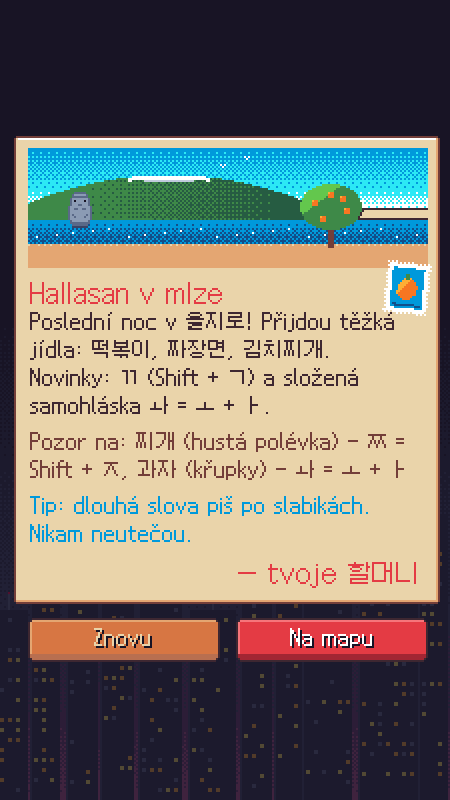
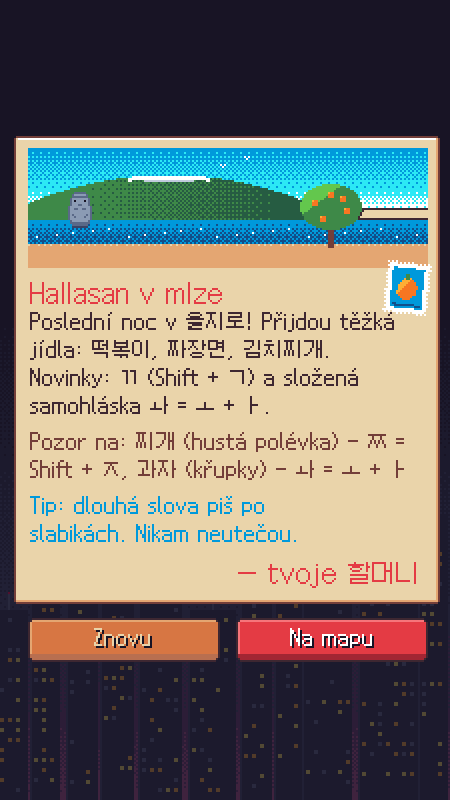
Postcard tip wraps clear of grandma's sprite; version 0.5.0 (title shows v0.5)

Changed region(s): [[0.0622, 0.625, 0.8089, 0.6875]]

diff --git a/src/scenes/Title.ts b/src/scenes/Title.ts
@@ -42,7 +42,7 @@ export class TitleScene extends Phaser.Scene {
     else button(this, 16, by, 20, 20, '', () => this.coop(), { icon: 'together', style: 'wood' }).setDepth(DEPTH.hud);
     this.tweens.add({ targets: start, scale: { from: 1, to: 1.05 }, yoyo: true, repeat: -1, duration: 700, ease: 'Sine.easeInOut' });
     button(this, W - 16, by, 20, 20, '', () => goto(this, 'Settings', { from: 'Title' }), { icon: 'gear', style: 'wood' }).setDepth(DEPTH.hud);
-    txt(this, 4, H - 3, 'v0.4', { size: 'xs', color: C.grey, origin: [0, 1] }).setDepth(DEPTH.hud);
+    txt(this, 4, H - 3, 'v0.5', { size: 'xs', color: C.grey, origin: [0, 1] }).setDepth(DEPTH.hud);
     this.input.keyboard?.on('keydown-ENTER', () => this.open());
     this.game.events.on('layout', this.onLayout, this);
     this.events.once('shutdown', () => this.game.events.off('layout', this.onLayout, this));

diff --git a/src/scenes/Result.ts b/src/scenes/Result.ts
@@ -181,7 +181,7 @@ export class ResultScene extends Phaser.Scene {
       parts.push(tr);
       y += tr.height + 6;
     }
-    const tip = txt(this, cx + 8, y, pc.tip, { size: 's', color: C.blue, wrap: cw - 16, lineSpacing: 2 });
+    const tip = txt(this, cx + 8, y, pc.tip, { size: 's', color: C.blue, wrap: cw - 56, lineSpacing: 2 });
     parts.push(tip);
     y += tip.height + 6;
     const sign = txt(this, cx + cw - 10, y, '— tvoje 할머니', { size: 'm', color: C.red, origin: [1, 0] });
